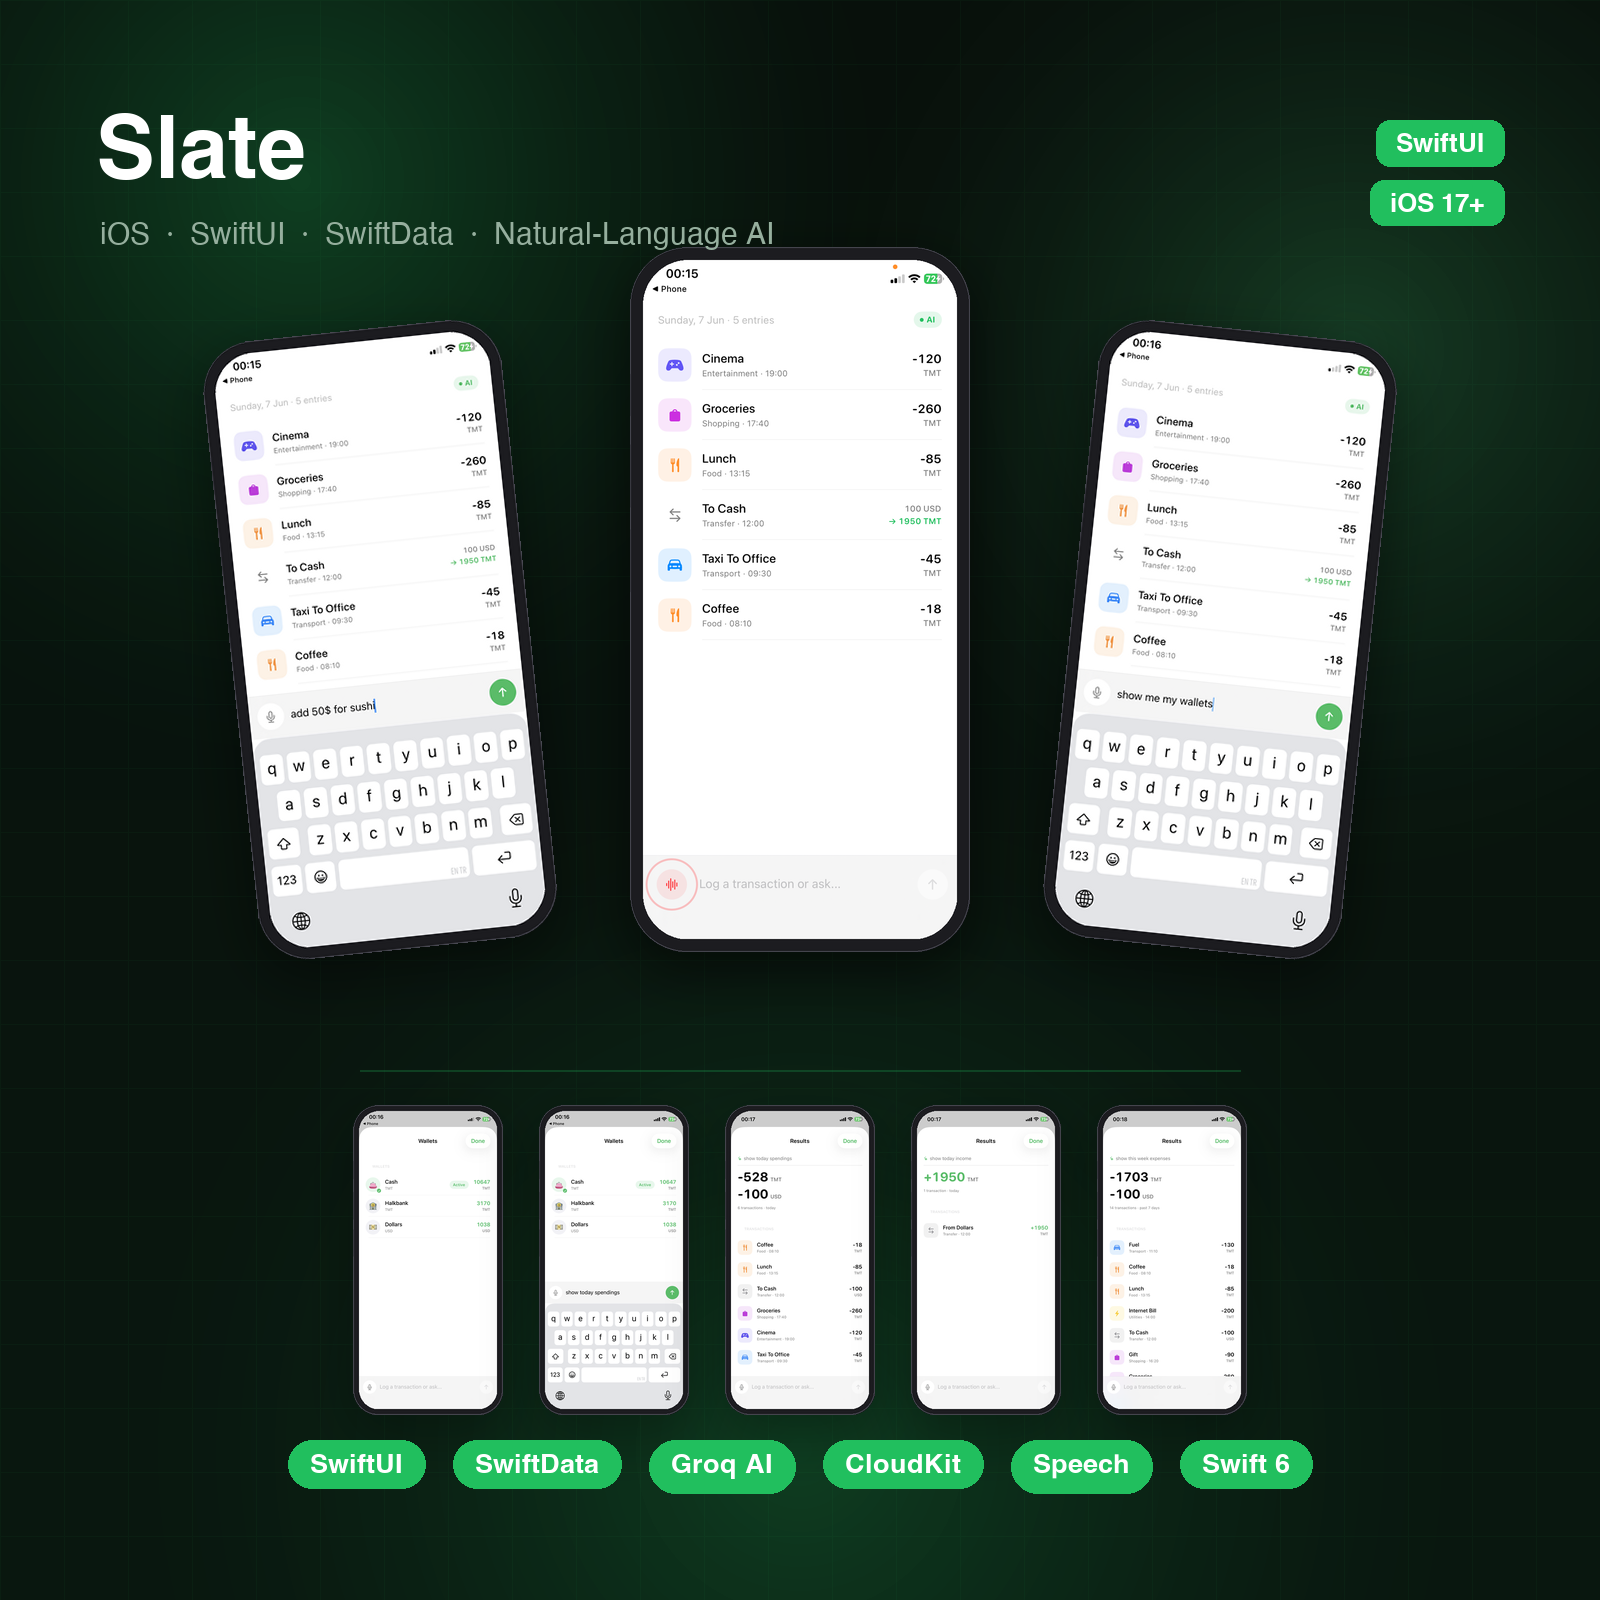
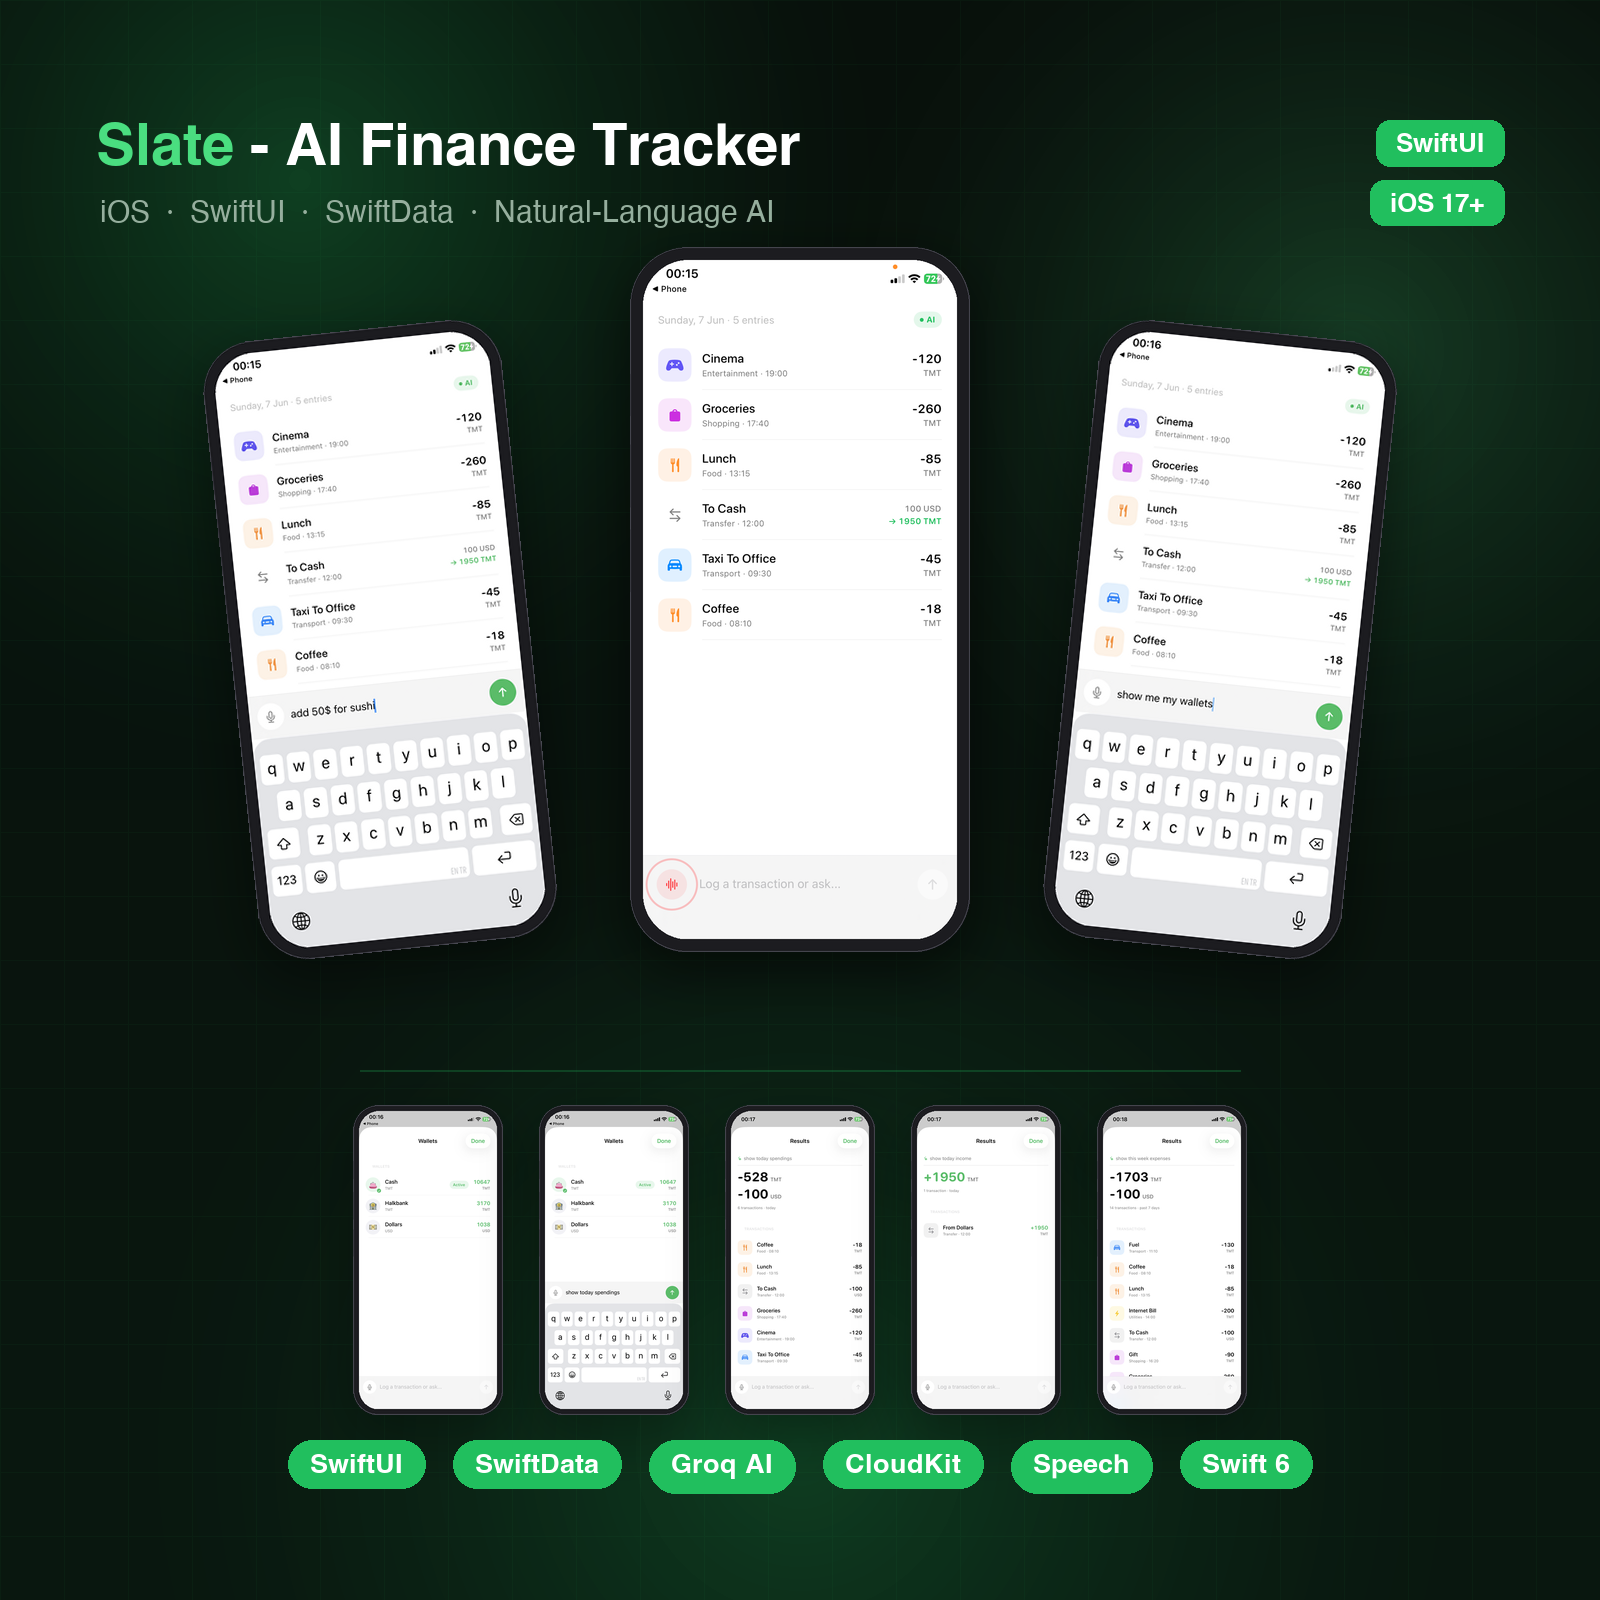
Rename Slate to 'Slate - AI Finance Tracker' in page and preview

Changed region(s): [[0.0625, 0.0625, 0.5, 0.1562]]

diff --git a/projects/slate.html b/projects/slate.html
@@ -2,7 +2,7 @@
 <html lang="en">
 <head>
     <meta charset="utf-8">
-    <title>Slate — Natural-Language AI Finance Tracker for iOS by Aziz Bibitov</title>
+    <title>Slate - AI Finance Tracker | iOS App by Aziz Bibitov</title>
     <meta name="viewport" content="width=device-width, initial-scale=1.0">
     <link href="https://fonts.googleapis.com/css2?family=Inter:wght@300;400;500;600;700;800&display=swap" rel="stylesheet">
     <link href="https://cdnjs.cloudflare.com/ajax/libs/font-awesome/5.10.0/css/all.min.css" rel="stylesheet">
@@ -88,8 +88,8 @@
         @keyframes pulse { 0%,100%{opacity:1;transform:scale(1)} 50%{opacity:0.5;transform:scale(0.8)} }
 
         .hero h1 {
-            font-size: clamp(42px, 7vw, 80px); font-weight: 800;
-            letter-spacing: -3px; line-height: 1; color: var(--white); margin-bottom: 20px;
+            font-size: clamp(34px, 5.5vw, 60px); font-weight: 800;
+            letter-spacing: -2px; line-height: 1.05; color: var(--white); margin-bottom: 20px;
         }
         .hero h1 span { color: var(--accent-bright); }
         .hero p { font-size: 18px; color: var(--muted); max-width: 580px; margin: 0 auto 40px; line-height: 1.7; }
@@ -284,7 +284,7 @@
     <div class="hero-bg"></div>
     <div class="hero-grid"></div>
     <div class="hero-badge"><span class="dot"></span> iOS · AI Finance Tracker</div>
-    <h1><span>Slate</span></h1>
+    <h1><span>Slate</span> - AI Finance Tracker</h1>
     <p>A natural-language expense and income tracker. Type or speak what happened — Slate parses it with AI and logs it instantly. Offline-first, multi-currency, and synced over iCloud.</p>
     <div class="hero-cta">
         <a href="https://github.com/azizbibitov/slate-ai-finance-tracker" class="btn-primary" target="_blank" rel="noopener">

diff --git a/index.html b/index.html
@@ -417,7 +417,7 @@
                                         <a href="projects/slate.html"><img src="img/portfolio-16.png" class="img-fluid" alt=""></a>
                                         <a href="img/portfolio-16.png" class="link-preview" data-lightbox="portfolio" data-title="Slate - AI Finance Tracker" title="Preview"><i class="fa fa-eye"></i></a>
                                         <a href="https://github.com/azizbibitov/slate-ai-finance-tracker" class="link-github" title="GitHub"><i class="fab fa-github"></i></a>
-                                        <a class="portfolio-title" href="projects/slate.html">Slate <span>iOS Development</span></a>
+                                        <a class="portfolio-title" href="projects/slate.html">Slate <span>AI Finance Tracker</span></a>
                                     </figure>
                                 </div>
                             </div>